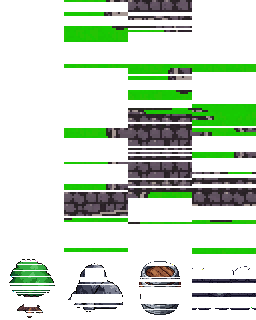
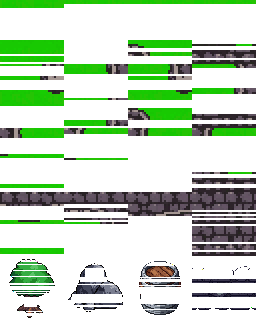
Fix PixelLab dungeon Wang autotile: unique atlas slots and single ground layer
Duplicate Wang tile positions in the PixelLab export caused overlapping terrain
peering and a green-gray mush on the map. Assign atlas coords by tile id 0-15,
paint grass and paths on one TileMapLayer, and skip procedural grass variants
when using the PixelLab tileset. Rebuild atlas and bump to v0.1.23.

diff --git a/scripts/art/pixellab_tileset_batch.py b/scripts/art/pixellab_tileset_batch.py
@@ -245,13 +245,10 @@ def export_tileset(tileset_id: str) -> dict:
 	os.makedirs(TILES_DIR, exist_ok=True)
 	exported = []
 	for tile in tiles:
-		pos = tile.get("original_position") or {}
-		col = int(pos.get("col", len(exported) % 4))
-		row = int(pos.get("row", len(exported) // 4))
-		if col > 3:
-			col = len(exported) % 4
-		if row > 3:
-			row = len(exported) // 4
+		# PixelLab original_position can collide — Wang ids 0–15 map to a unique 4×4 grid.
+		tid = int(tile.get("id", len(exported)))
+		col = tid % 4
+		row = tid // 4
 		raw = tile_image_bytes(tile)
 		tile_path = f"{TILES_DIR}/{tile['id']}.png"
 		with open(tile_path, "wb") as f:
